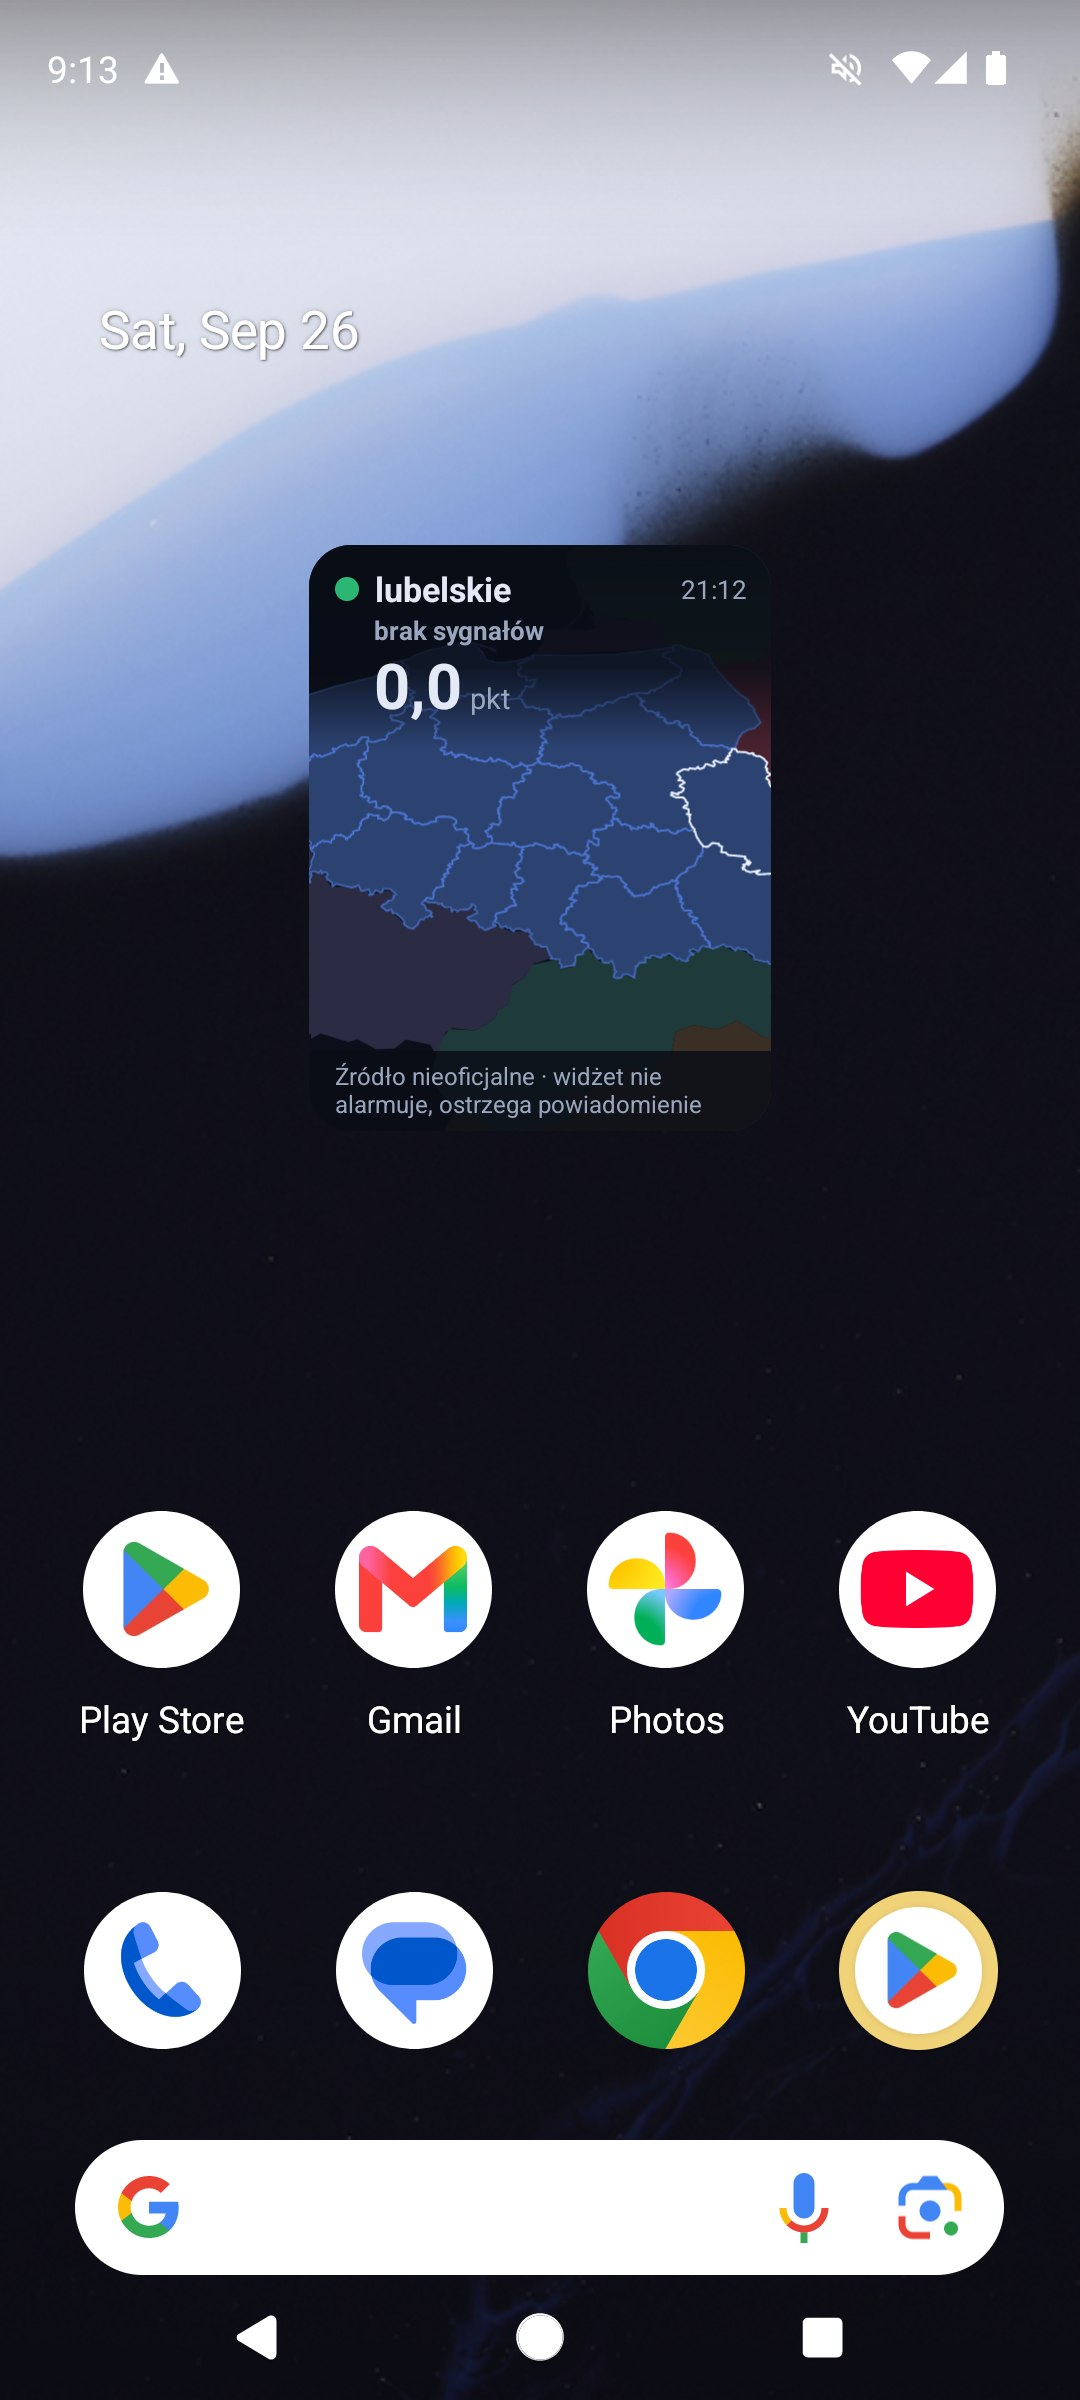
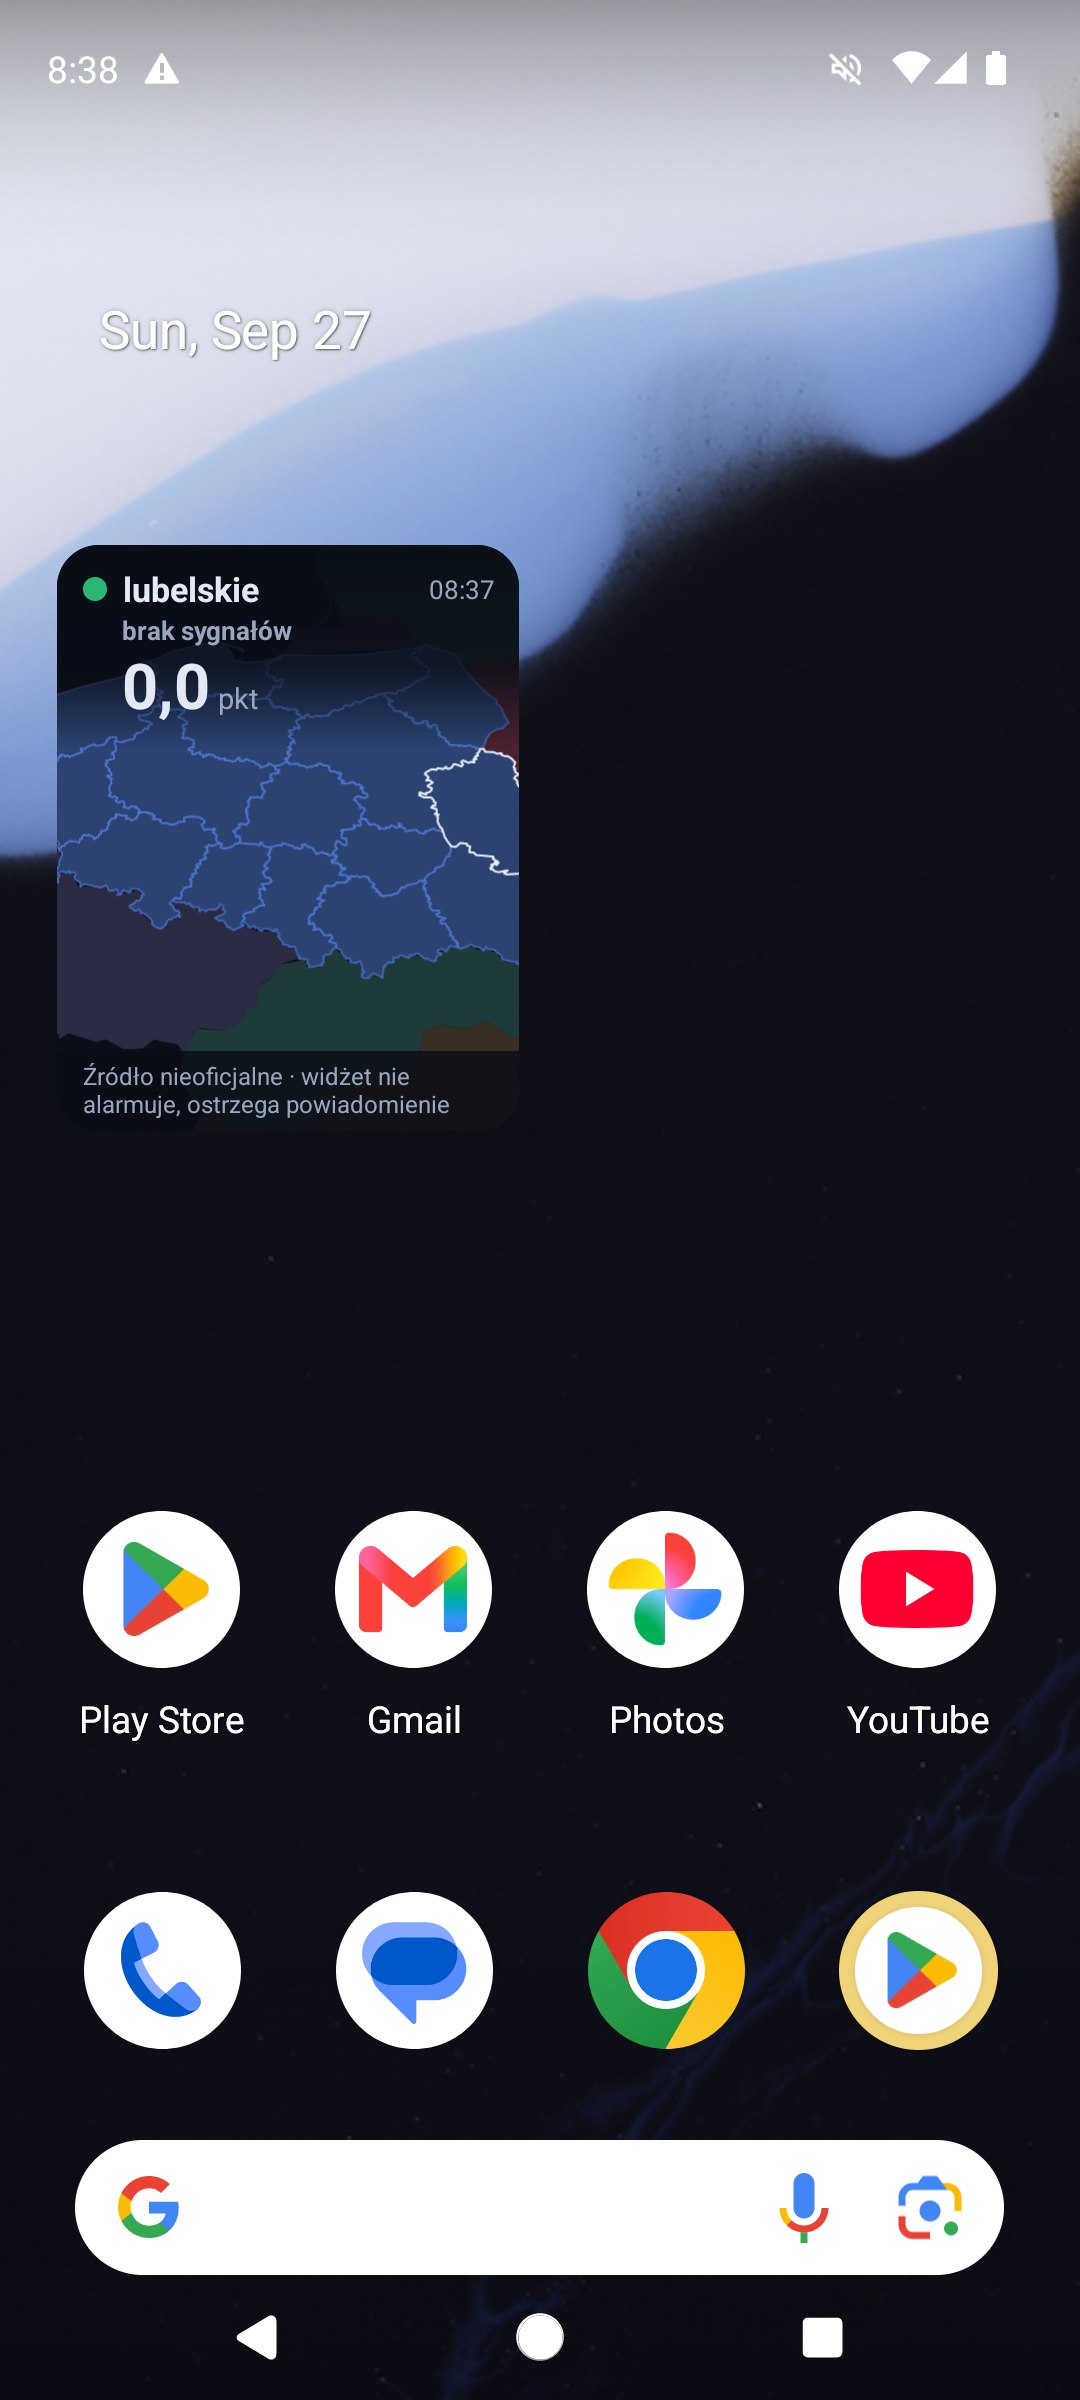
Widget: the unit label follows the app's language too
The points unit was set in the layout XML, and the launcher inflates
that with the SYSTEM locale, so a Polish app on an English phone showed
"0,0 pts". It is set from code now, like every other text.

Small-tile guide screenshots in all three languages while the device
was up.

Changed region(s): [[0.0306, 0.2188, 0.7333, 0.4688], [0.1222, 0.125, 0.3361, 0.1562]]

diff --git a/android-app/android/app/src/main/java/pl/straznik/app/Widgets.java b/android-app/android/app/src/main/java/pl/straznik/app/Widgets.java
@@ -520,6 +520,9 @@ final class Widgets {
         rv.setTextViewText(R.id.w_foot, stale
             ? t.getString(R.string.widget_stale, time)
             : t.getString(R.string.widget_foot));
+        // teksty wpisane w układzie inflatuje launcher w języku SYSTEMU — ustawiamy je
+        // z kodu, żeby całość mówiła językiem aplikacji (Pixel 7, 27.09.2026)
+        rv.setTextViewText(R.id.w_pts_label, t.getString(R.string.widget_pts));
 
         if (watched.isEmpty()) {
             // pusty kafelek nic by nie mówił — mówimy, co zrobić
